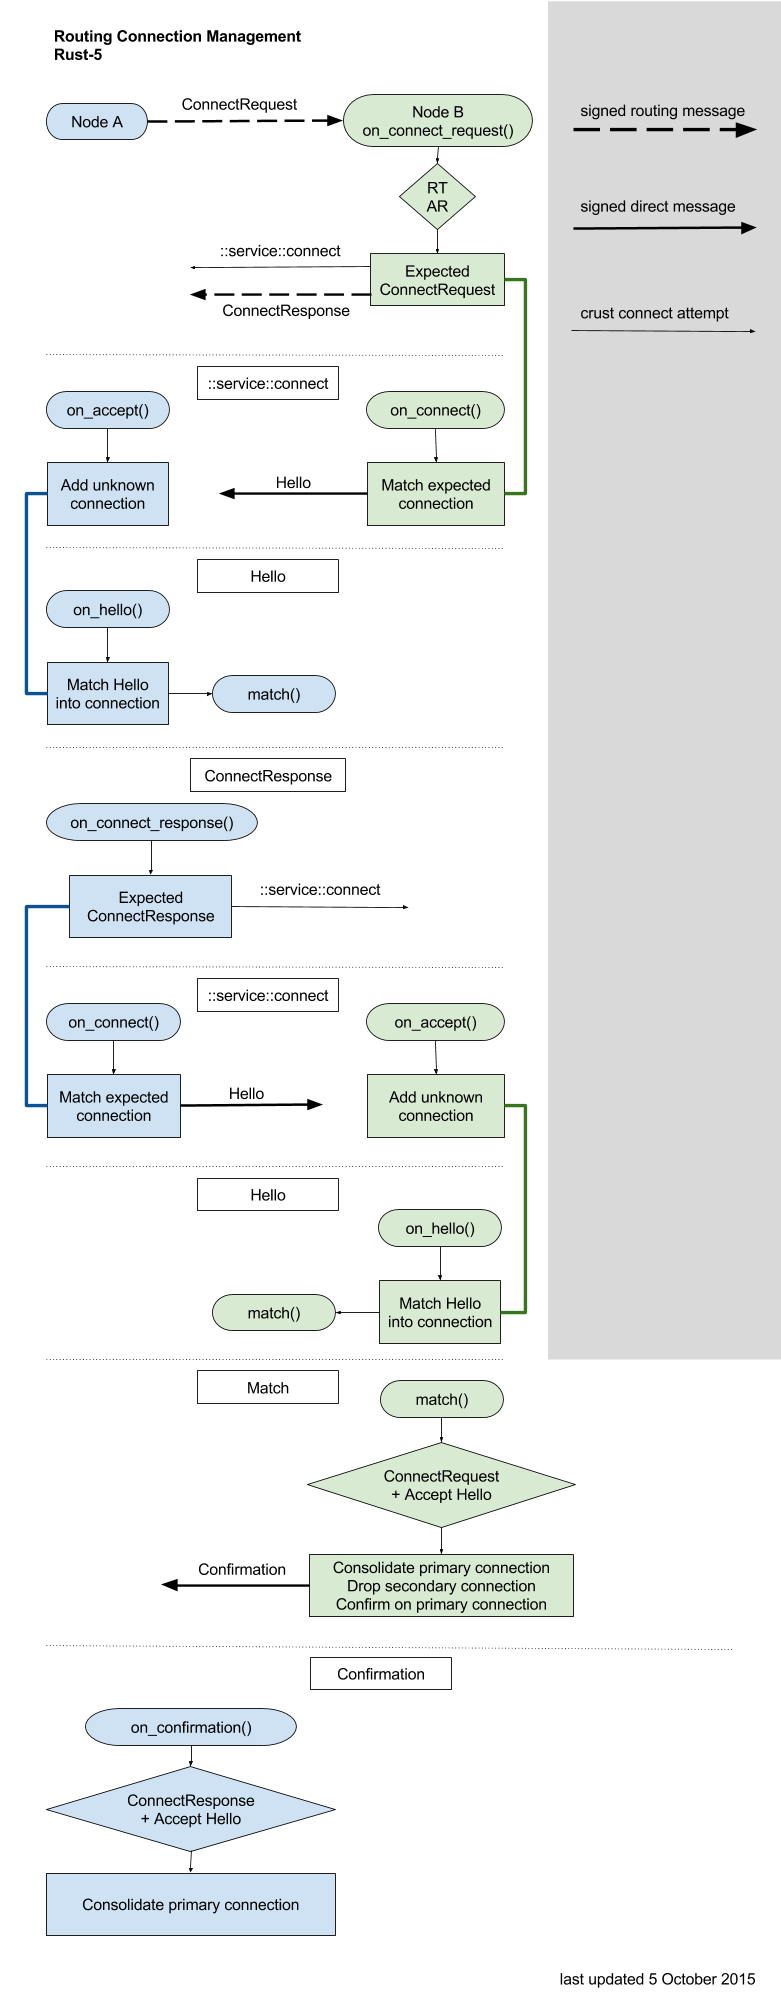
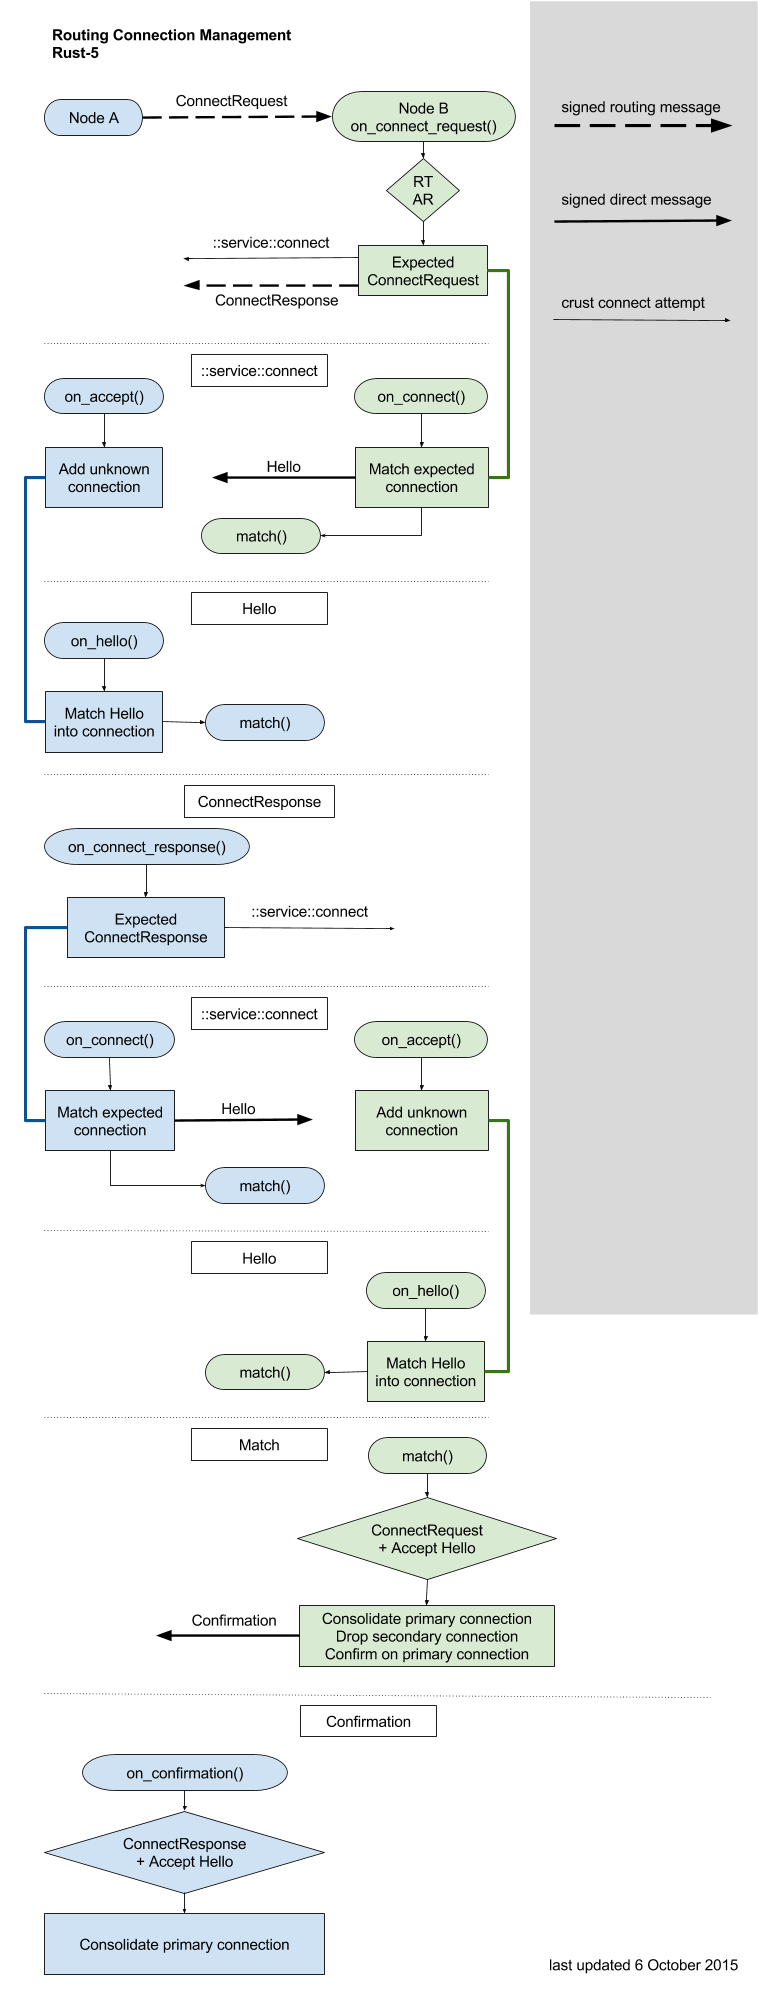
addition to diagram expansion on description

diff --git a/proposed/0008-Connection_management.md b/proposed/0008-Connection_management.md
@@ -29,13 +29,21 @@ A client will have a reduced cycle: `Disconnected`, `Bootstrapped`, `Terminated`
 
 We consider first the case where the connection is not started through crust bootstrapping.  We assume that a node `A` is either already connected into the network, or has established a relay node in the network through crust bootstrapping.  
 
+Node A can initiate the connection without keeping state.  As a simple measure of congestion management a filter prevents A from repeating the same `ConnectRequest` within a small time frame.  On reception of the `ConnectRequest` node B needs to query the routing table (RT) and the connection cache (AR) for the address relocation validity of the new connection to A.  If B refuses the ConnectRequest for any reason, it suffices to drop the message.
+
+On acceptance of the ConnectRequest from A, B will keep the ConnectRequest and both try to connect to A, and also send a ConnectResponse back to A.
+
+On establishing a primary connection initiated by B, B will match this connection to the Expected Connections (which can be either ConnectRequests or ConnectResponses); upon a successful match B will store this connection in the ConnectRequest/ConnectResponse and identify itself on this connection with a direct `Hello` message.  Node A will accept the connection as an unknown connection.  On reception of the `Hello` message it can store this information together with the unknown connection.  On a successful match, the node should
+
+## Asynchronous flowchart for connection management
+
+![Asynchronous flowchart for Connection Management](Connection%20Management.png)
+
 ## integration of Address Relocation into connection management
 
 The current mechanism of Address Relocation is compatible with the proposal here.  To activate Address Relocation a new proposal will be written that integrates Address Relocation into the `ConnectRequest`.
 
 For clients it can be of interest to announce their relay location to the ClientManager group.  This can also be done with the `ConnectRequest`.
-
-![Flowchart for Connection Management](Connection%20Management.png)
 
 # Implementation blueprint
 
